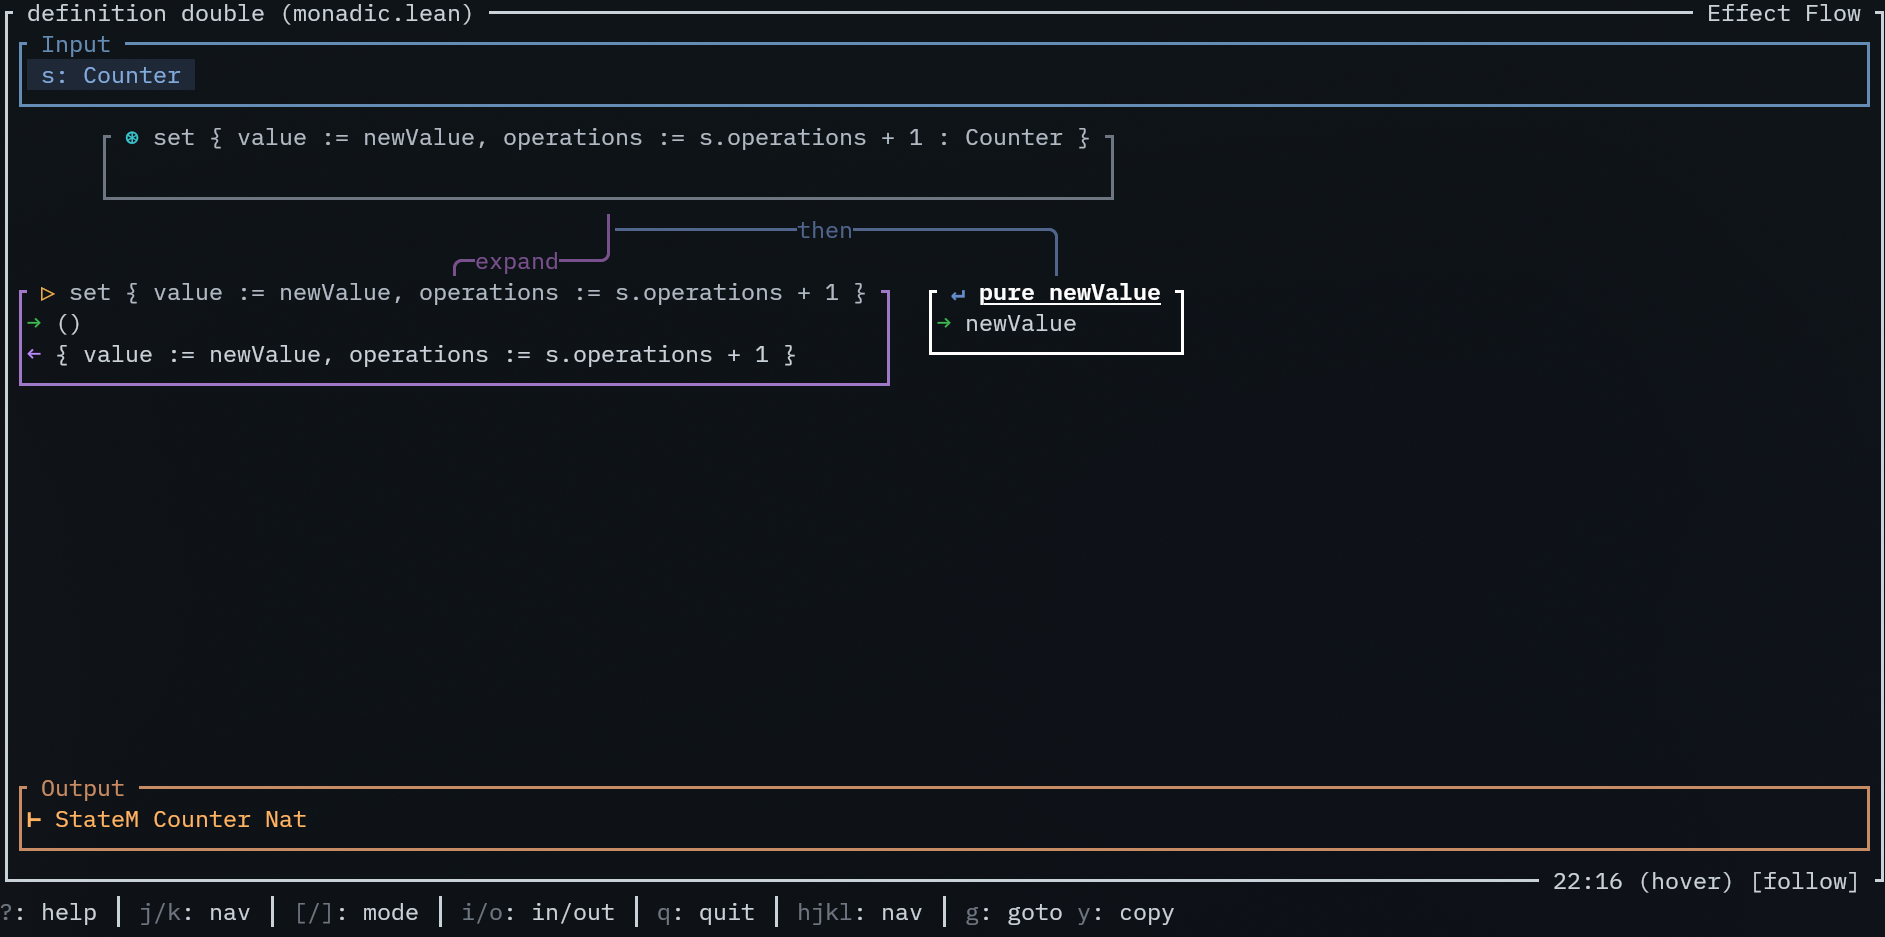
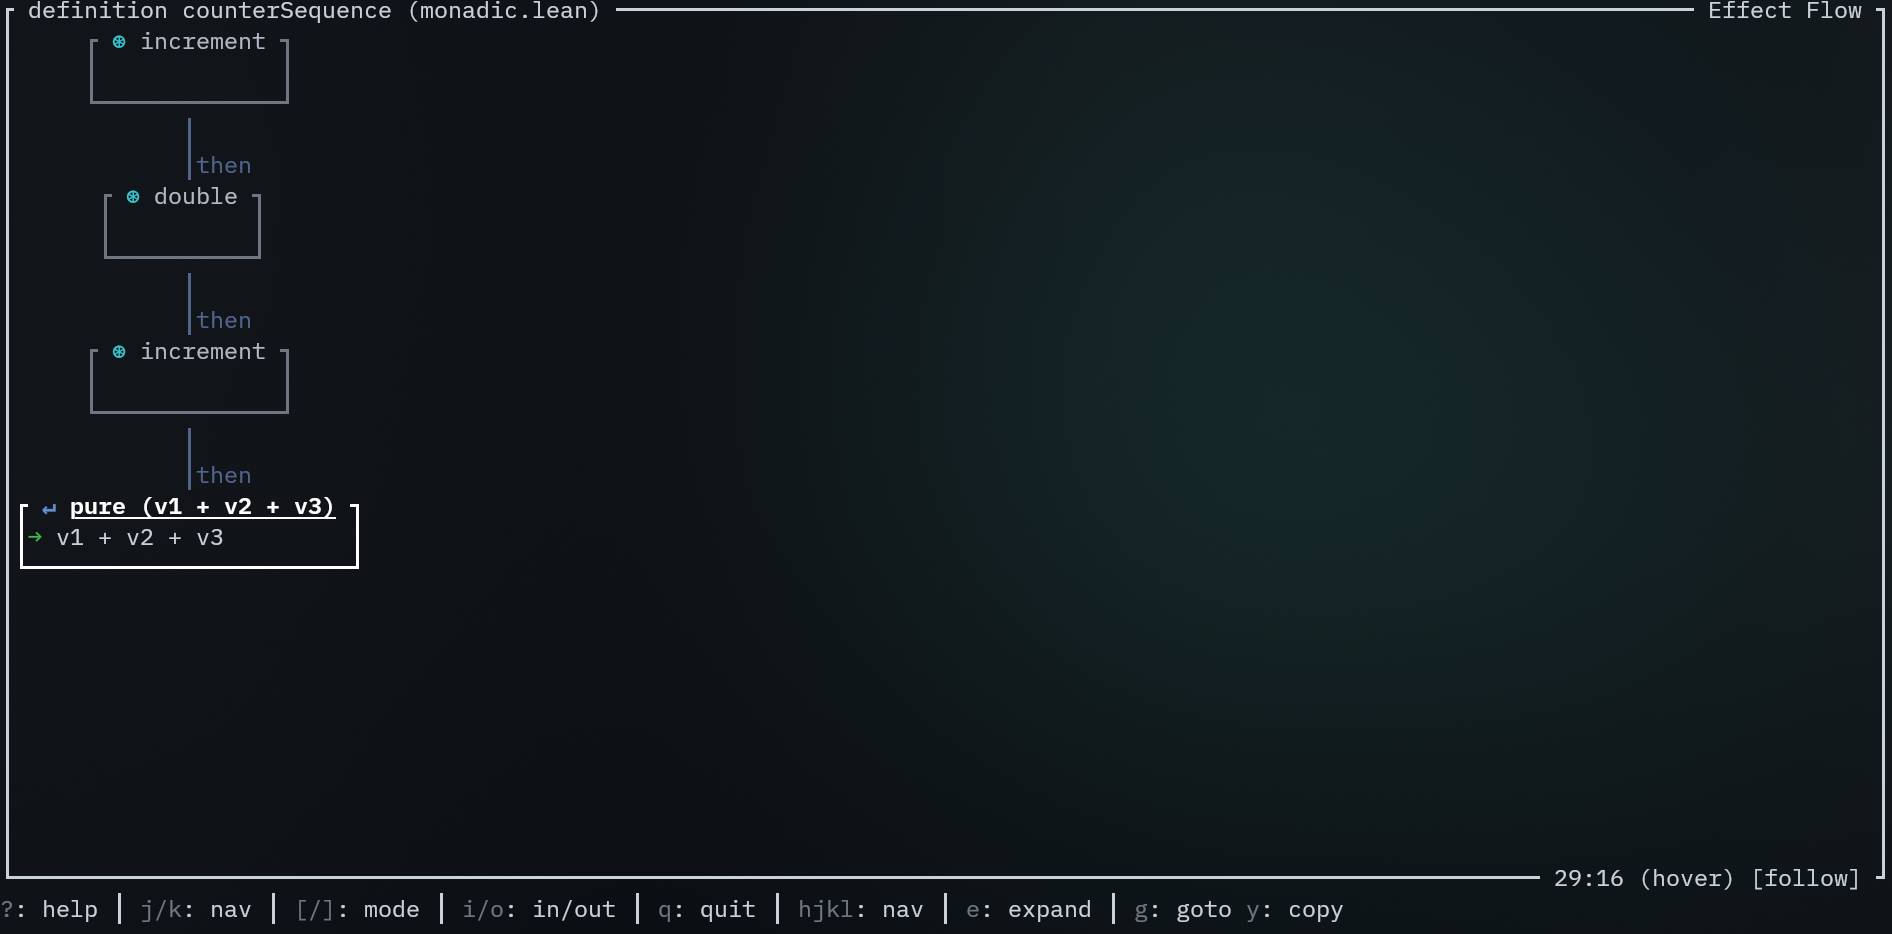
feat: add expand (default off) to the effect flow diagram

diff --git a/src/effect_flow/types.rs b/src/effect_flow/types.rs
@@ -1,4 +1,9 @@
-use std::{collections::HashMap, error::Error, fmt, num::NonZero};
+use std::{
+    collections::{HashMap, HashSet},
+    error::Error,
+    fmt,
+    num::NonZero,
+};
 
 use petgraph::graph::NodeIndex;
 use ratatui::style::{Color, Style};
@@ -320,16 +325,24 @@ impl EffectFlowDag {
         }
     }
 
-    /// Convert to petgraph-based `DagGraph` for rendering.
-    pub fn to_graph(&self) -> DagGraph<EffectFlowNode> {
+    /// Convert to petgraph-based `DagGraph` for rendering, optionally filtering
+    /// out expand edges.
+    pub fn to_graph_filtered(&self, include_expand: bool) -> DagGraph<EffectFlowNode> {
+        let excluded_node_ids = self.expand_target_ids();
         let mut graph = DagGraph::new();
 
         for node in &self.nodes {
+            if !include_expand && excluded_node_ids.contains(&node.id) {
+                continue;
+            }
             graph.add_node(node.id, node.clone());
         }
 
         for node in &self.nodes {
-            add_effect_edges(node, &mut graph);
+            if !include_expand && excluded_node_ids.contains(&node.id) {
+                continue;
+            }
+            add_effect_edges_filtered(node, &mut graph, include_expand);
         }
 
         graph.root = self.root_node_id.and_then(|id| graph.index_of(id));
@@ -337,17 +350,23 @@ impl EffectFlowDag {
         graph.orphans = self
             .orphans
             .iter()
+            .filter(|id| include_expand || !excluded_node_ids.contains(id))
             .filter_map(|&id| graph.index_of(id))
             .collect();
 
         graph
     }
 
-    pub fn to_layout_graph(&self) -> LayoutGraph {
+    /// Convert to layout graph, optionally filtering out expand edges.
+    pub fn to_layout_graph_filtered(&self, include_expand: bool) -> LayoutGraph {
+        let excluded_node_ids = self.expand_target_ids();
         let mut layout = LayoutGraph::new();
         let mut id_to_index = HashMap::new();
 
         for node in &self.nodes {
+            if !include_expand && excluded_node_ids.contains(&node.id) {
+                continue;
+            }
             let (width, height) = node.layout_size();
             let index = NodeIndex::new(layout.nodes.len());
             id_to_index.insert(node.id, index);
@@ -355,7 +374,10 @@ impl EffectFlowDag {
         }
 
         for node in &self.nodes {
-            add_effect_layout_edges(node, &id_to_index, &mut layout);
+            if !include_expand && excluded_node_ids.contains(&node.id) {
+                continue;
+            }
+            add_effect_layout_edges_filtered(node, &id_to_index, &mut layout, include_expand);
         }
 
         layout.root = self
@@ -364,18 +386,73 @@ impl EffectFlowDag {
         layout.orphans = self
             .orphans
             .iter()
+            .filter(|id| include_expand || !excluded_node_ids.contains(id))
             .filter_map(|id| id_to_index.get(id).copied())
             .collect();
 
         layout
     }
+
+    /// Get all node IDs that should be hidden when expand is collapsed.
+    /// This includes direct targets of "expand" edges and all their descendants.
+    fn expand_target_ids(&self) -> HashSet<NodeId> {
+        let roots = self.direct_expand_targets();
+        self.reachable_from(&roots)
+    }
+
+    /// Get node IDs that are direct targets of "expand" edges.
+    fn direct_expand_targets(&self) -> HashSet<NodeId> {
+        self.nodes
+            .iter()
+            .flat_map(|node| &node.edges)
+            .filter(|e| e.label.as_deref() == Some("expand"))
+            .map(|e| e.target)
+            .collect()
+    }
+
+    /// Get all nodes reachable from a set of root nodes (inclusive).
+    fn reachable_from(&self, roots: &HashSet<NodeId>) -> HashSet<NodeId> {
+        let mut visited = roots.clone();
+        let mut frontier: Vec<NodeId> = roots.iter().copied().collect();
+
+        while let Some(node_id) = frontier.pop() {
+            let unvisited_children = self
+                .get(node_id)
+                .into_iter()
+                .flat_map(|node| node.edges.iter().map(|e| e.target))
+                .filter(|&id| visited.insert(id));
+            frontier.extend(unvisited_children);
+        }
+
+        visited
+    }
+
+    /// Get the number of nodes, optionally excluding expand targets.
+    pub fn node_count_filtered(&self, include_expand: bool) -> usize {
+        if include_expand {
+            self.nodes.len()
+        } else {
+            let excluded = self.expand_target_ids();
+            self.nodes
+                .iter()
+                .filter(|n| !excluded.contains(&n.id))
+                .count()
+        }
+    }
 }
 
-fn add_effect_edges(node: &EffectFlowNode, graph: &mut DagGraph<EffectFlowNode>) {
+fn add_effect_edges_filtered(
+    node: &EffectFlowNode,
+    graph: &mut DagGraph<EffectFlowNode>,
+    include_expand: bool,
+) {
     let Some(from_idx) = graph.index_of(node.id) else {
         return;
     };
     for edge in &node.edges {
+        if !include_expand && edge.label.as_deref() == Some("expand") {
+            continue;
+        }
         let Some(to_idx) = graph.index_of(edge.target) else {
             continue;
         };
@@ -391,15 +468,19 @@ fn add_effect_edges(node: &EffectFlowNode, graph: &mut DagGraph<EffectFlowNode>)
     }
 }
 
-fn add_effect_layout_edges(
+fn add_effect_layout_edges_filtered(
     node: &EffectFlowNode,
     id_to_index: &HashMap<NodeId, NodeIndex>,
     layout: &mut LayoutGraph,
+    include_expand: bool,
 ) {
     let Some(&from_idx) = id_to_index.get(&node.id) else {
         return;
     };
     for edge in &node.edges {
+        if !include_expand && edge.label.as_deref() == Some("expand") {
+            continue;
+        }
         let Some(&to_idx) = id_to_index.get(&edge.target) else {
             continue;
         };

diff --git a/src/effect_flow/mod.rs b/src/effect_flow/mod.rs
@@ -3,7 +3,7 @@ mod layout;
 mod state_node;
 pub mod types;
 
-use crossterm::event::{MouseButton, MouseEventKind};
+use crossterm::event::{KeyCode, MouseButton, MouseEventKind};
 use ratatui::{
     layout::Rect,
     style::{Color, Modifier, Style},
@@ -33,6 +33,7 @@ pub struct EffectFlowMode {
     effect_dag: Option<EffectFlowDag>,
     selected_idx: Option<usize>,
     effect_tableau_state: EffectTableauState,
+    expanded: bool,
 }
 
 impl EffectFlowMode {
@@ -205,7 +206,13 @@ impl InteractiveComponent for EffectFlowMode {
                 if let Some(dir) = key_to_direction(key.code) {
                     return self.move_in_direction(dir);
                 }
-                false
+                match key.code {
+                    KeyCode::Char('e') => {
+                        self.expanded = !self.expanded;
+                        true
+                    }
+                    _ => false,
+                }
             }
             KeyMouseEvent::Mouse(mouse) => {
                 if mouse.kind != MouseEventKind::Down(MouseButton::Left) {
@@ -230,7 +237,8 @@ impl InteractiveComponent for EffectFlowMode {
 
         if let Some(ref dag) = self.effect_dag {
             let remaining = self.render_monad_stack(frame, content_area);
-            let widget = EffectTableauLayout::new(dag, self.current_tree_selection());
+            let widget =
+                EffectTableauLayout::new(dag, self.current_tree_selection(), self.expanded);
             frame.render_stateful_widget(widget, remaining, &mut self.effect_tableau_state);
             return;
         }
@@ -250,7 +258,7 @@ impl Mode for EffectFlowMode {
     }
 
     fn keybindings(&self) -> &'static [(&'static str, &'static str)] {
-        &[("hjkl", "nav")]
+        &[("hjkl", "nav"), ("e", "expand")]
     }
 
     fn current_selection(&self) -> Option<Selection> {

diff --git a/src/effect_flow/layout.rs b/src/effect_flow/layout.rs
@@ -31,11 +31,16 @@ impl EffectTableauState {
 pub struct EffectTableauLayout<'a> {
     dag: &'a EffectFlowDag,
     selection: Option<Selection>,
+    expanded: bool,
 }
 
 impl<'a> EffectTableauLayout<'a> {
-    pub fn new(dag: &'a EffectFlowDag, selection: Option<Selection>) -> Self {
-        Self { dag, selection }
+    pub fn new(dag: &'a EffectFlowDag, selection: Option<Selection>, expanded: bool) -> Self {
+        Self {
+            dag,
+            selection,
+            expanded,
+        }
     }
 }
 
@@ -47,6 +52,7 @@ impl StatefulWidget for EffectTableauLayout<'_> {
             self.dag,
             true, // top_down
             self.selection,
+            self.expanded,
             area,
             buf,
             &mut state.graph,

diff --git a/src/effect_flow/graph_pane.rs b/src/effect_flow/graph_pane.rs
@@ -19,6 +19,7 @@ pub fn render_graph_pane(
     dag: &EffectFlowDag,
     top_down: bool,
     selection: Option<Selection>,
+    expanded: bool,
     area: Rect,
     buf: &mut Buffer,
     state: &mut GraphViewport,
@@ -32,10 +33,10 @@ pub fn render_graph_pane(
         return;
     }
 
-    let graph = dag.to_graph();
+    let graph = dag.to_graph_filtered(expanded);
 
-    let layout_changed = state.update_layout_if_needed(dag.len(), || {
-        let layout_graph = dag.to_layout_graph();
+    let layout_changed = state.update_layout_if_needed(dag.node_count_filtered(expanded), || {
+        let layout_graph = dag.to_layout_graph_filtered(expanded);
         calculate_layout(&layout_graph, top_down)
     });
 

diff --git a/src/before_after/mod.rs b/src/before_after/mod.rs
@@ -304,7 +304,7 @@ impl Mode for BeforeAfterMode {
                 "Diff markers",
                 Color::White,
                 vec![
-                    LegendItem::new("", Theme::UNCHANGED, "unchanged"),
+                    LegendItem::new("x", Theme::UNCHANGED, "unchanged"),
                     LegendItem::new("+", Theme::ADDED, "added"),
                     LegendItem::new("~", Theme::CHANGED, "changed"),
                     LegendItem::new("-", Theme::REMOVED, "removed"),
